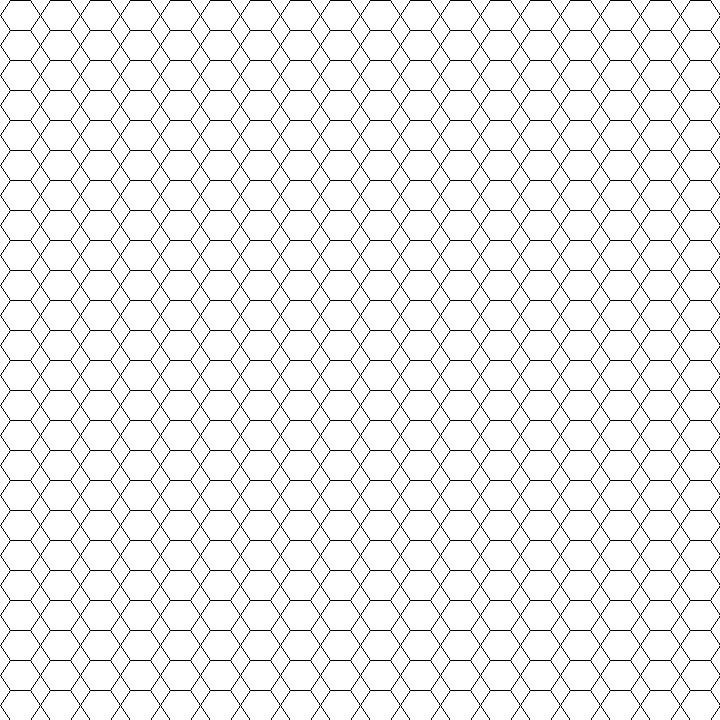
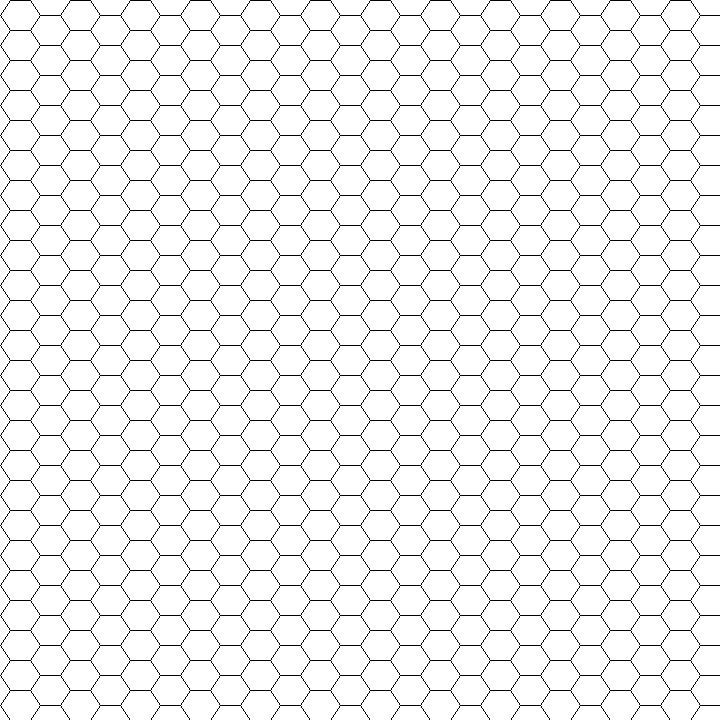
Tymczasowe przyciski siatek zamienione na właściwe i zmieniono ich pozycje. Poprawiono siatkę heksagonalną.

diff --git a/Program/main.py b/Program/main.py
@@ -124,16 +124,16 @@ menu_buttons_group.add(menu_delete_button)
 menu_eraser = MenuButtons("Pictures/Menu/menu_eraser_button.png", [122.5, 270])
 menu_buttons_group.add(menu_eraser)
 
-menu_square_grid = MenuButtons("Pictures/Menu/menu_save_button.png", [62.5, 360])
-menu_square_grid.image = pygame.transform.scale(menu_square_grid.image, (60,60))
+menu_square_grid = MenuButtons("Pictures/Menu/menu_square_grid.png", [122.5, 360])
+menu_square_grid.image = pygame.transform.scale(menu_square_grid.image, (80,80))
 menu_buttons_group.add(menu_square_grid)
 
-menu_hex_grid = MenuButtons("Pictures/Menu/menu_save_button.png", [132.5, 360])
-menu_hex_grid.image = pygame.transform.scale(menu_hex_grid.image, (60,60))
+menu_hex_grid = MenuButtons("Pictures/Menu/menu_hex_grid.png", [122.5, 450])
+menu_hex_grid.image = pygame.transform.scale(menu_hex_grid.image, (80,80))
 menu_buttons_group.add(menu_hex_grid)
 
-menu_no_grid = MenuButtons("Pictures/Menu/menu_save_button.png", [202.5, 360])
-menu_no_grid.image = pygame.transform.scale(menu_no_grid.image, (60,60))
+menu_no_grid = MenuButtons("Pictures/Menu/menu_no_grid.png", [122.5, 540])
+menu_no_grid.image = pygame.transform.scale(menu_no_grid.image, (80,80))
 menu_buttons_group.add(menu_no_grid)
 
 
@@ -452,7 +452,7 @@ while True:
                     grid.add(MapElement("Pictures/Menu/square_grid.png", canvas_center))
                 elif menu_hex_grid.rect.collidepoint(mouse_cords):
                     grid.empty()
-                    grid.add(MapElement("Pictures/Menu/hex_grid.png", canvas_center))
+                    grid.add(MapElement("Pictures/Menu/hex_grid_thin.png", canvas_center))
                 elif menu_no_grid.rect.collidepoint(mouse_cords):
                     grid.empty()
 
@@ -479,7 +479,7 @@ while True:
                     grid.add(MapElement("Pictures/Menu/square_grid.png", canvas_center))
             elif event.key == pygame.K_h:
                     grid.empty()
-                    grid.add(MapElement("Pictures/Menu/hex_grid.png", canvas_center))
+                    grid.add(MapElement("Pictures/Menu/hex_grid_thin.png", canvas_center))
             elif event.key == pygame.K_n:
                     grid.empty()
 
